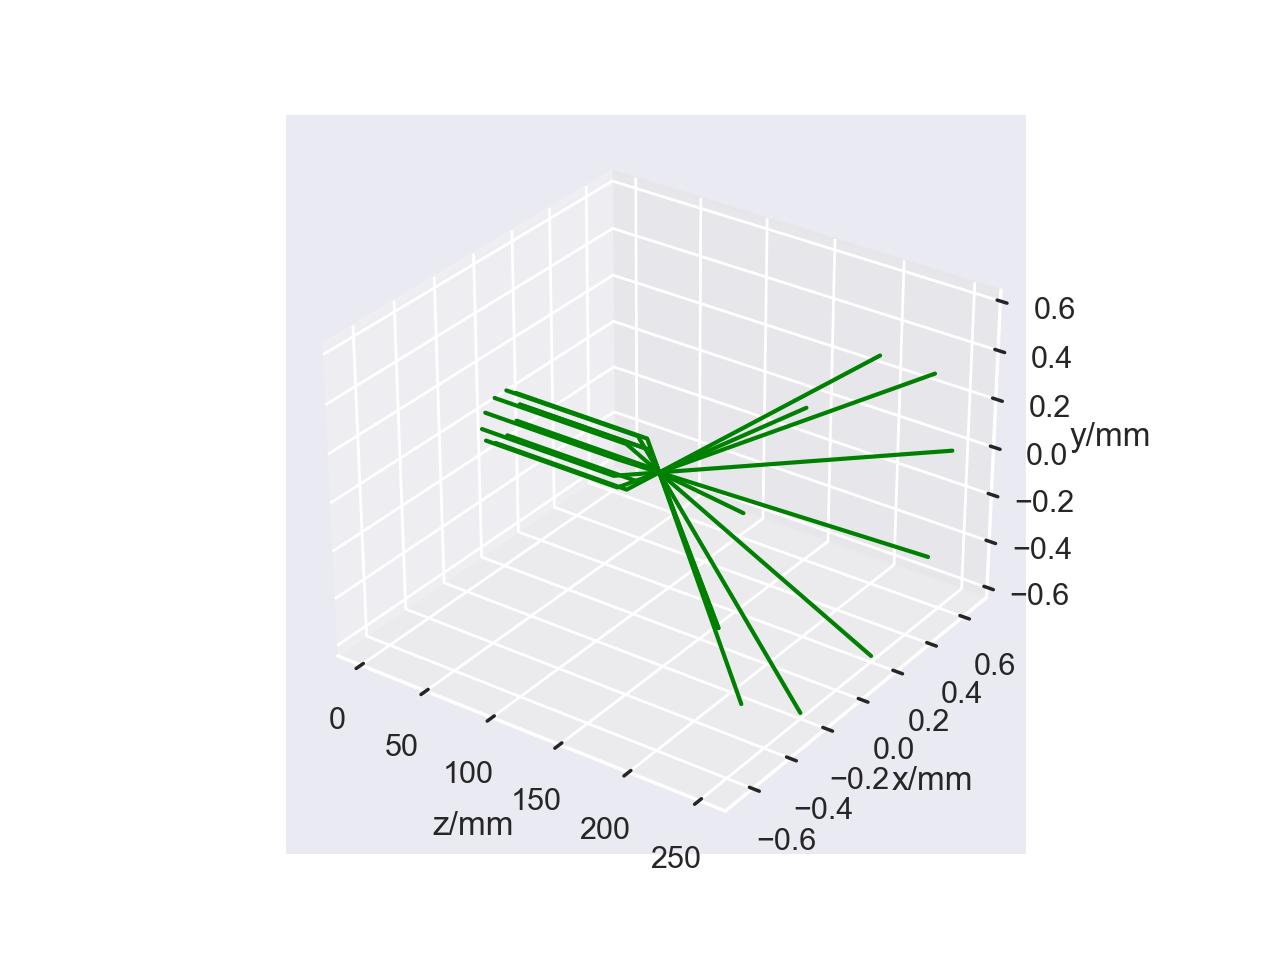
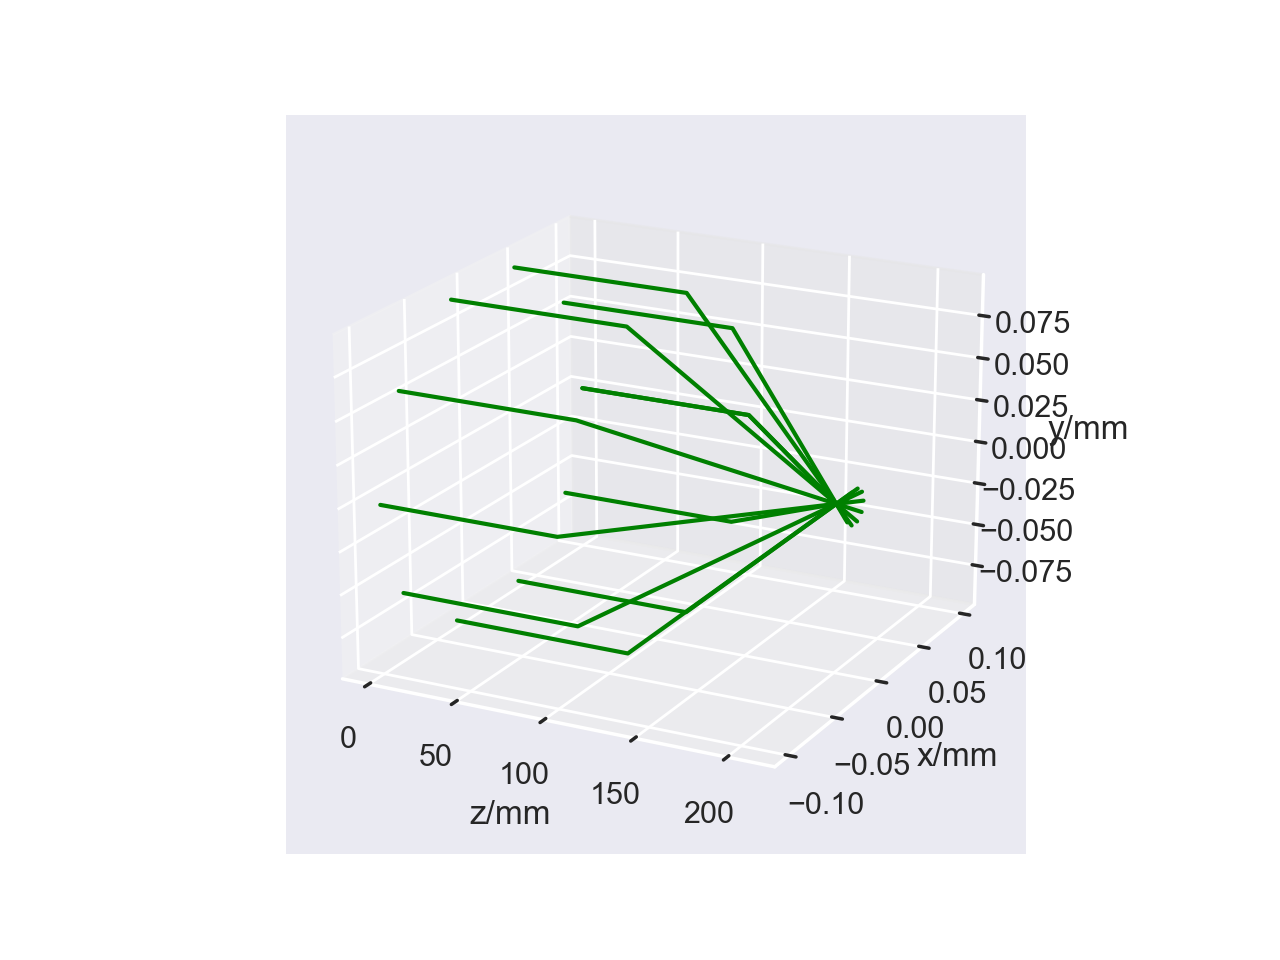
task 12, created make_bundle function
also opelem line 231, changed direction of vector

diff --git a/testing.py b/testing.py
@@ -60,13 +60,6 @@ print(test_ray.vertices())
 # ray plot function
 # test_ray.plot(2, 1)
 
-
-
-
-
-
-
-
 # task 9 - example rays through simple spherical surface
 z0 = 100
 spherical = elems.SphericalRefraction(z0, 0.03, 1, 1.5, 30)
@@ -78,9 +71,9 @@ rays_down = []
 rays_left = []
 rays_right = []
 
-n = 5
-circle = np.linspace(0, np.pi * 2, n) # list of n equally-spaced points on a circle
-spread = 2 # set radius of circle
+n = 11
+circle = np.linspace(0, np.pi * 2, n)  # list of n equally-spaced points on a circle
+spread = 5  # set radius of circle
 z = 0
 
 # create n rays initialised on the circumference of the circle
@@ -89,6 +82,7 @@ for i in circle:
     x = spread * np.cos(i)
     y = spread * np.sin(i)
 
+    ######## make function for this in main investigation to avoid repeating code #####
     pos = [x, y, 0]
     dir = [0, 0, 1]
     ray = rt.Ray(pos, dir)
@@ -115,8 +109,6 @@ for i in circle:
     rays_right.append(ray_right)
 
 
-
-
 # create set of 3D axis
 # ax = plt.axes(projection="3d")
 # ax.set_xlabel("z/mm")
@@ -129,47 +121,42 @@ for ray, ray_up, ray_down, ray_left, ray_right in zip(rays, rays_up, rays_down, 
     spherical.propagate_ray(ray)
     output.propagate_ray(ray)
     # ray.three_d_plot(ax, "green")
-    ray.plot(2, 0)
+    ray.plot(2, 0, "green")
 
     spherical.propagate_ray(ray_up)
     output.propagate_ray(ray_up)
     # ray_up.three_d_plot(ax, "red")
-    ray_up.plot(2, 0)
+    ray_up.plot(2, 0, "red")
 
     spherical.propagate_ray(ray_down)
     output.propagate_ray(ray_down)
     # ray_down.three_d_plot(ax, "cadetblue")
-    ray_down.plot(2, 0)
+    ray_down.plot(2, 0, "cadetblue")
 
     spherical.propagate_ray(ray_left)
     output.propagate_ray(ray_left)
     # ray_left.three_d_plot(ax, "orange")
-    ray_left.plot(2, 0)
+    ray_left.plot(2, 0, "orange")
 
     spherical.propagate_ray(ray_right)
     output.propagate_ray(ray_right)
     # ray_right.three_d_plot(ax, "purple")
-    ray_right.plot(2, 0)
+    ray_right.plot(2, 0, "purple")
 
 plt.show()
-
-
-
-
-
 
 
 # task 10 - estimate position of paraxial focus
 
 z0 = 100
 spherical = elems.SphericalRefraction(z0, 0.03, 1, 1.5, 30)
-output = elems.OutputPlane(120)
+output = elems.OutputPlane(210)
 
 rays = []
 
 n = 11
-circle = np.linspace(0, np.pi * 2, n) # list of n equally-spaced points on a circle
-spread = 0.1 # set radius of circle to 0.1mm
+circle = np.linspace(0, np.pi * 2, n)  # list of n equally-spaced points on a circle
+spread = 0.1  # set radius of circle to 0.1mm
 z = 0
 
 # create n rays initialised on the circumference of the circle
@@ -184,59 +171,49 @@ for i in circle:
     rays.append(ray)
 
 # create set of 3D axis
-# ax = plt.axes(projection="3d")
-# ax.set_xlabel("z/mm")
-# ax.set_ylabel("x/mm")
-# ax.set_zlabel("y/mm")
+ax = plt.axes(projection="3d")
+ax.set_xlabel("z/mm")
+ax.set_ylabel("x/mm")
+ax.set_zlabel("y/mm")
 
 # propagate each ray through spherical surface onto output plane
 # then plot onto either 2D or 3D axes
 for ray in rays:
     spherical.propagate_ray(ray)
     output.propagate_ray(ray)
+    ray.three_d_plot(ax, "green")
+    # ray.plot(2, 0)
+
+plt.show()
+
+# the paraxial focus for this spherical surface is estimated to be 100mm
+# online research (http://web.mit.edu/2.710/Fall06/2.710-wk2-b-sl.pdf pg. 43)
+# tells us that focus f' can be approximated as n2 * (R / (n2 - n1))
+# so 1.5 * (33.33333333 / (1.5 - 1)) = 1.5 * 66.666 = 99.9999mm
+
+# task 11 - form an image using spherical object
+
+z0 = 100
+spherical = elems.SphericalRefraction(z0, 0.03, 1, 1.5, 30)
+output = elems.OutputPlane(450)
+
+pos = [5, 0, 0] # set height of object in x-z plane
+n = 4 # no. of rays
+image_angles = np.linspace(0, np.arctan(0.05), n) # list of n equally-spaced angles from 0 to pi radians
+spread = -1 # decrease in x-direction as angle increases
+rays_img = []
+
+for i in image_angles:
+    x = spread * np.sin(i)
+    dir = [x, 0, 1]
+    print(x)
+    ray = rt.Ray(pos, dir)
+    rays_img.append(ray)
+
+for ray in rays_img:
+    spherical.propagate_ray(ray)
+    output.propagate_ray(ray)
     # ray.three_d_plot(ax, "green")
     ray.plot(2, 0)
 
 plt.show()
-
-
-
-
-
-
-
-
-
-
-
-
-
-
-
-
-
-
-
-
-
-
-
-
-
-
-
-
-
-
-
-
-
-
-
-
-
-
-
-
-
-

diff --git a/opticalelements.py b/opticalelements.py
@@ -6,12 +6,14 @@ All elements have methods to propagate a ray object through them
 
 import numpy as np
 
+
 def normalise_vector(vector):
     """Normalise an input vector"""
 
     if len(vector) != 3:
         raise Exception("Enter 3-D vector as a 3-element array")
     return vector / np.linalg.norm(vector)
+
 
 def rotation_matrix(theta, unit_axis):
     """Calculate rotation matrix from angle and axis
@@ -39,6 +41,7 @@ def rotation_matrix(theta, unit_axis):
     rot_matrix = (cos * identity_matrix) + (sin * cross_prod_matrix) + ((1 - cos) * outer_matrix)
     return rot_matrix
 
+
 class OpticalElement:
     def propagate_ray(self, ray):
         """Propagate a ray through the optical element
@@ -49,6 +52,7 @@ class OpticalElement:
         """
 
         raise NotImplementedError()
+
 
 class SphericalRefraction(OpticalElement):
     """Spherical surface which inherents base class OpticalElemant.
@@ -130,11 +134,11 @@ class SphericalRefraction(OpticalElement):
         ray_p = ray.p()
         ray_k_unit = ray.k()
 
-        centre_to_ray = np.subtract(ray_p, centre) # distance between centre of element and ray (r)
-        r_dot_k = np.dot(centre_to_ray, ray_k_unit) # dot product between r and k
-        abs_centre_to_ray = np.linalg.norm(centre_to_ray) # absolute value of r vector
+        centre_to_ray = np.subtract(ray_p, centre)  # distance between centre of element and ray (r)
+        r_dot_k = np.dot(centre_to_ray, ray_k_unit)  # dot product between r and k
+        abs_centre_to_ray = np.linalg.norm(centre_to_ray)  # absolute value of r vector
 
-        # use (-r vector * direction of ray) plus or minus sqrt( (r*k)**2 - (rx + ry + rz) - radius**2 ) 
+        # use (-r vector * direction of ray) plus or minus sqrt( (r*k)**2 - (rx + ry + rz) - radius**2 )
         length_one = -r_dot_k + np.sqrt(r_dot_k ** 2 - (abs_centre_to_ray ** 2 - rad ** 2))
         length_two = -r_dot_k - np.sqrt(r_dot_k ** 2 - (abs_centre_to_ray ** 2 - rad ** 2))
 
@@ -224,7 +228,7 @@ class SphericalRefraction(OpticalElement):
             raise NoInterceptError("Ray has no intercept with element")
 
         # apply snell's law to incident ray
-        intercept_to_centre = np.subtract(intercept_point, self.__centre)
+        intercept_to_centre = np.subtract(self.__centre, intercept_point)
         unit_inter_to_centre = normalise_vector(intercept_to_centre)
         refracted_dir = self.snell(ray.k(), unit_inter_to_centre)
 
@@ -241,8 +245,10 @@ class SphericalRefraction(OpticalElement):
         points = ray.vertices()
         return points
 
+
 class NoInterceptError(Exception):
     pass
+
 
 class OutputPlane(OpticalElement):
     """Output place at specified z-value which inherents base class OpticalElemant.

diff --git a/main.py b/main.py
@@ -7,5 +7,61 @@ from mpl_toolkits import mplot3d
 
 sns.set_theme(style="darkgrid")
 
+# task 12  - trace a bundle of rays for a uniform collimated beam
 
+z0 = 100 # set centre of spherical surface
+spherical = elems.SphericalRefraction(z0, 0.03, 1, 1.5, 30)
+output = elems.OutputPlane(300)
 
+n = [3, 10, 20, 30, 40, 50] # number of evenly-spaced points to create for each circle
+spread = 5 # set max. radius of collimated beam to 5mm
+spread_range = np.linspace(1, spread, len(n))
+print(spread_range)
+
+def make_beam(n, spread_range):
+    """Function to create evenly-spaced points on concentric circles.
+
+    Parameters
+    ----------
+    n : array-like
+        List of number of points to generate for each concentric ring
+    spread-range : array-like
+        List of radii of each concentric circle
+
+    Returns
+    -------
+    rays : array-like
+        Set of rays initialised by the points generated on the circles
+        
+    """
+
+    rays = []
+    for num in n:
+        points = np.linspace(0, np.pi * 2, num) # list of n equally-spaced points on a circle
+        for i in points:
+            x = np.cos(i)
+            y = np.sin(i)
+            for rad in spread_range:
+                pos = [rad * x, rad * y, 0] # initialise position of rays in z = 0 plane
+                dir = [0, 0, 1]
+                ray = rt.Ray(pos, dir)
+                rays.append(ray)
+    return rays
+
+# create set of 3D axis
+ax = plt.axes(projection="3d")
+ax.set_xlabel("z/mm")
+ax.set_ylabel("x/mm")
+ax.set_zlabel("y/mm")
+
+rays = make_beam(n, spread_range)
+
+# propagate each ray through spherical surface onto output plane
+# then plot onto either 2D or 3D axes
+for ray in rays:
+    spherical.propagate_ray(ray)
+    output.propagate_ray(ray)
+    ray.three_d_plot(ax, "green")
+    # ray.plot(2, 0)
+
+plt.show()

diff --git a/raytracer.py b/raytracer.py
@@ -126,16 +126,16 @@ class Ray:
     def is_terminated(self):
         return self.__terminated
 
-    def plot(self, axis_one, axis_two):
+    def plot(self, axis_one, axis_two, colour = "cadetblue"):
         points = self.vertices()
         coords = ["x/mm", "y/mm", "z/mm"]
         array_one = points[:, axis_one]
         array_two = points[:, axis_two]
-        plt.plot(array_one, array_two, "cadetblue")
+        plt.plot(array_one, array_two, colour)
         plt.xlabel(coords[axis_one])
         plt.ylabel(coords[axis_two])
 
-    def three_d_plot(self, ax, colour):
+    def three_d_plot(self, ax, colour = "cadetblue"):
         points = self.vertices()
         x = points[:, 2]
         y = points[:, 0]
